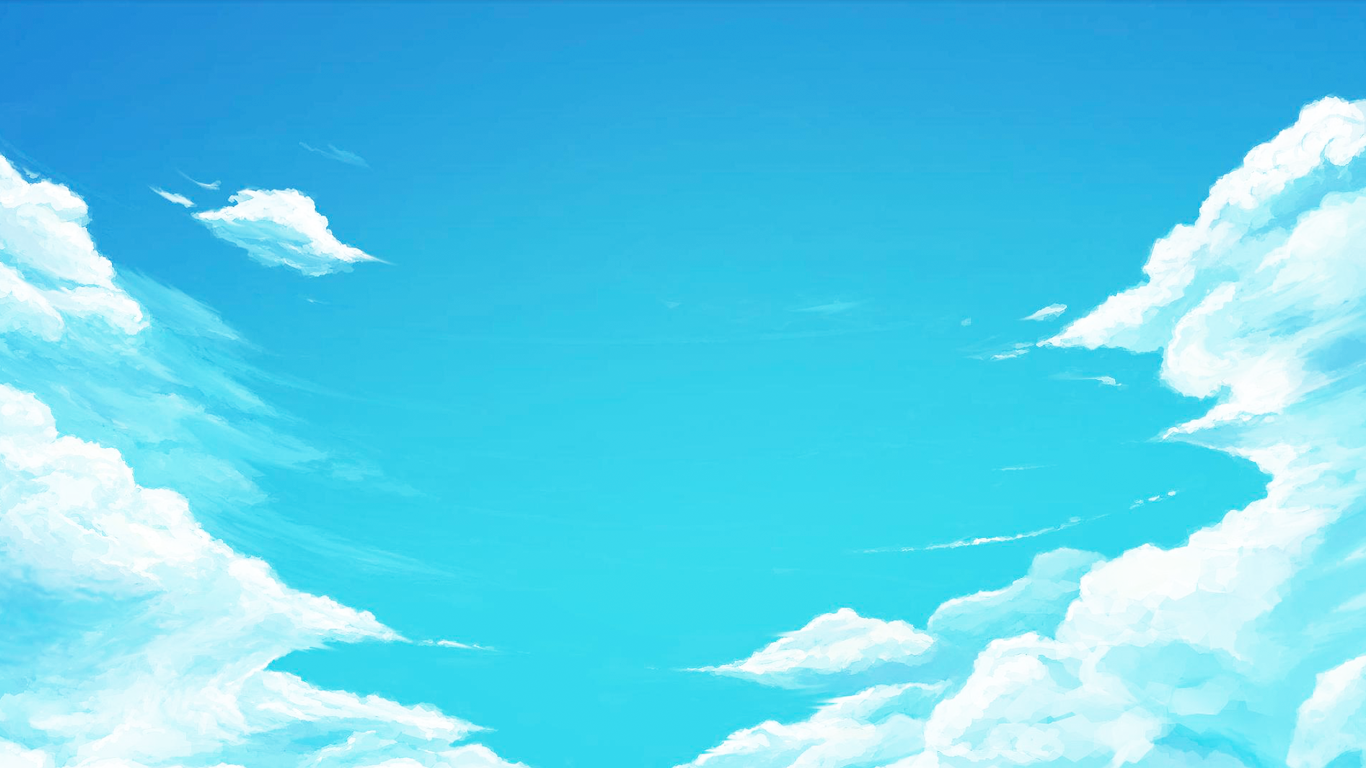
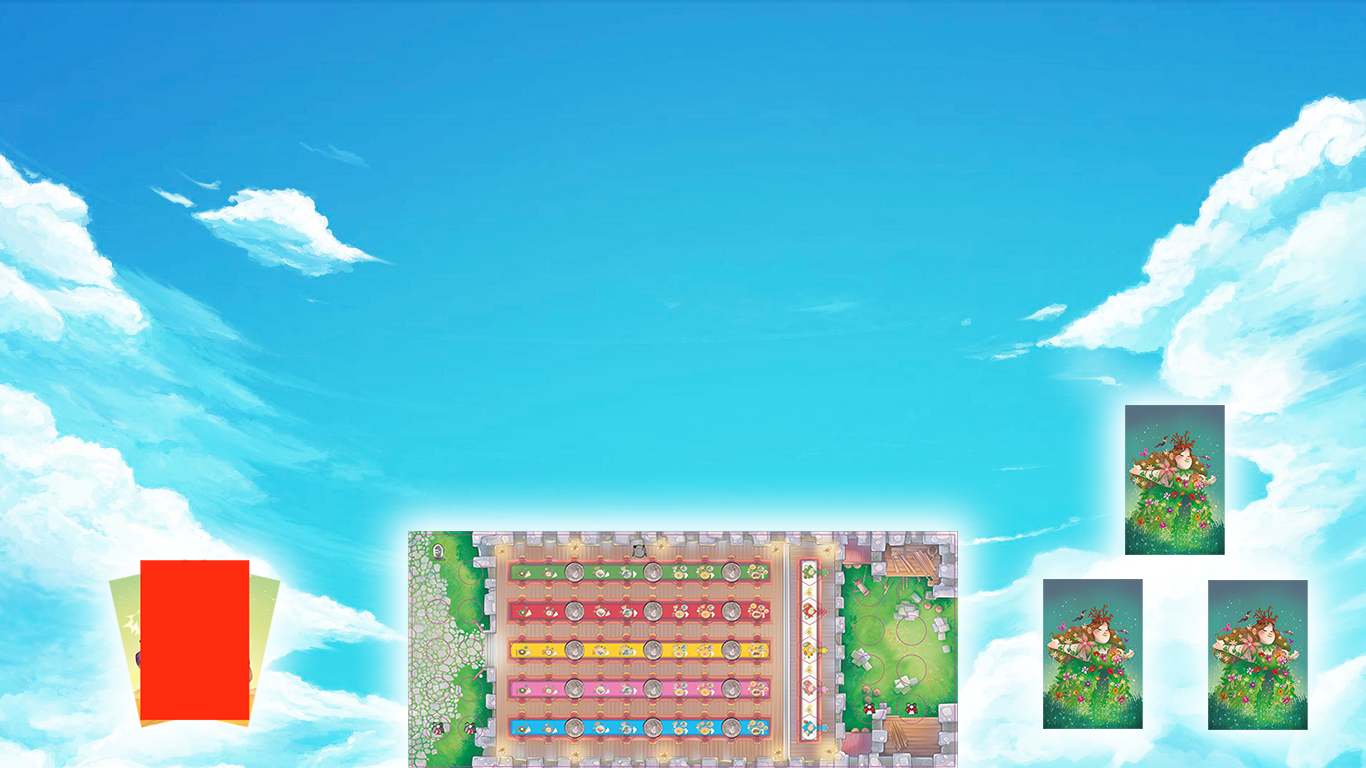
updated GameBoard FXML adding Character Cards and various fixedIds

Changed region(s): [[0.0307, 0.4375, 0.9839, 1.0]]

diff --git a/src/main/java/it/polimi/ingsw/client/view/gui/GUI.java b/src/main/java/it/polimi/ingsw/client/view/gui/GUI.java
@@ -75,22 +75,7 @@ public class GUI extends Application implements UI{
     @Override
     public void createGame(int numberOfPlayers, boolean expert, ClientModelManager cmm) {
         this.cmm = cmm;
-        if (!expert) {
-            //charactercardsAnchor.setVisible(false);
-            //coins.setVisible(false)
-        }
-        switch (numberOfPlayers) {
-            case (2) -> {
-                //player.left & right .setVisible(false)
-                //devo mappare il player 2 alla scuola centrale
-            }
-            case (3) -> {
-                //player.centrale .setVisible(false)
-            }
-            case (4) -> {
-                //default
-            }
-        }
+
         Platform.runLater(new Runnable() {
             @Override
             public void run() {
